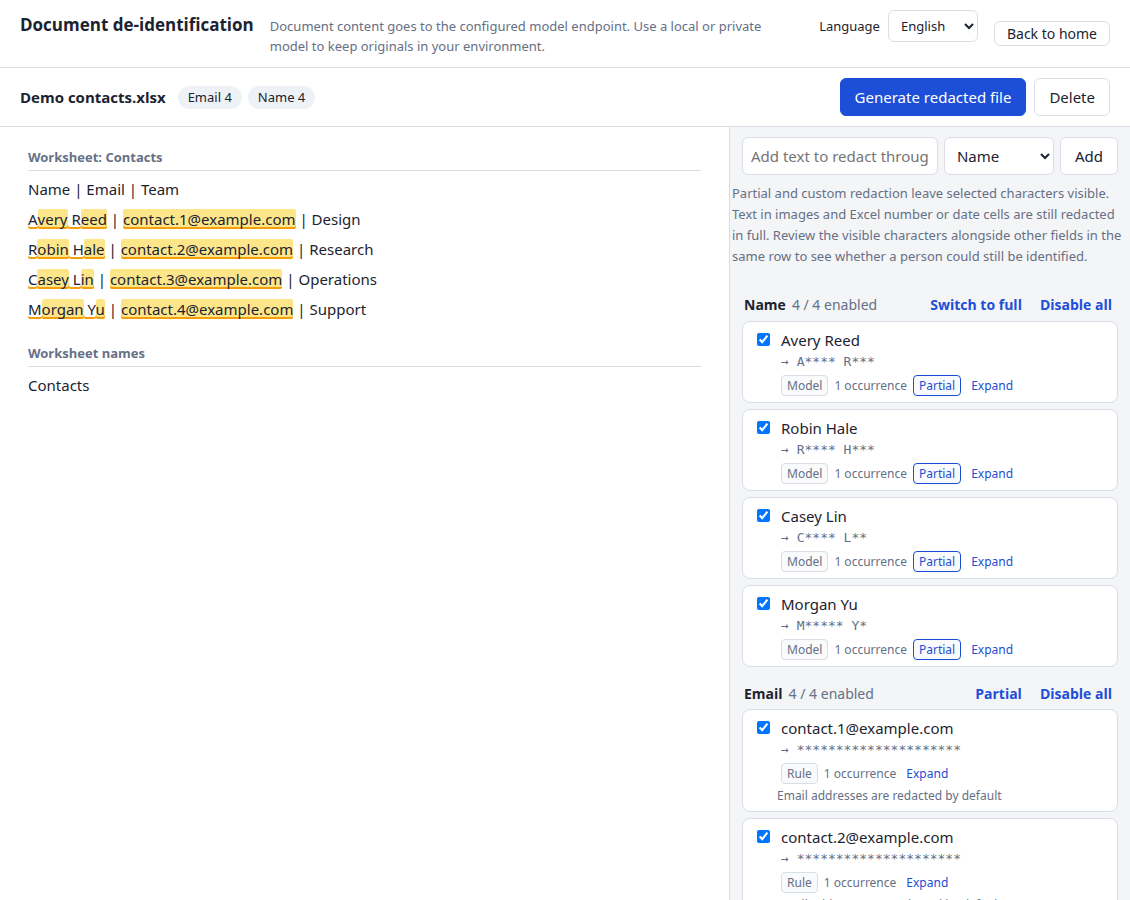
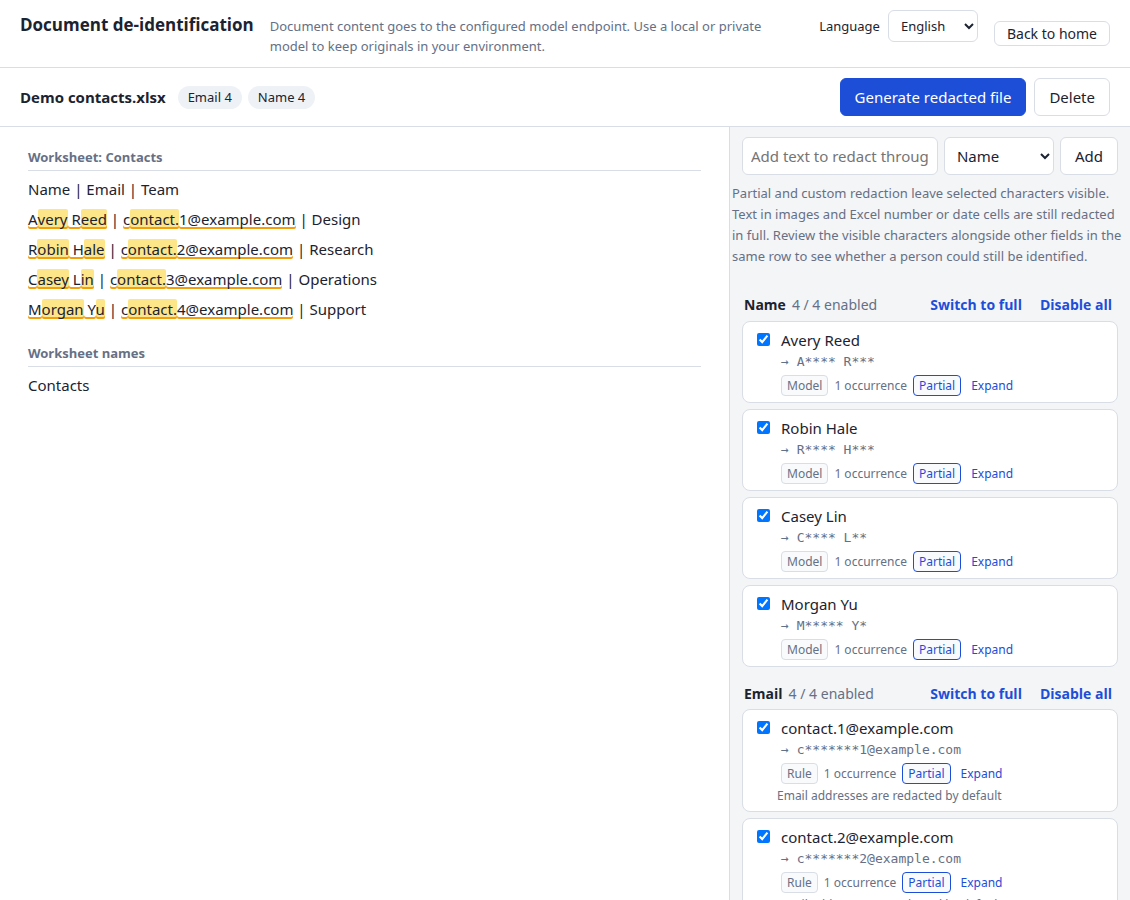
Use the supplied Traditional Chinese demo screenshots

diff --git a/README.md b/README.md
@@ -6,7 +6,7 @@
 
 上傳 Word、Excel 或 PDF，逐筆確認個資，再下載遮蔽檔，或將原文轉成代號交給雲端模型處理。偵測以繁體中文與台灣常見的個資格式為主。
 
-![VeilSpan 首頁，顯示「遮蔽」和「代號＋還原」兩種功能](docs/images/zh-home.png)
+![VeilSpan 首頁，顯示「遮蔽」和「代號＋還原」兩種功能](docs/images/home.png)
 
 ## Agentic 偵測怎麼運作
 
@@ -37,9 +37,34 @@
 
 ### 文件遮蔽
 
-以虛構的 Excel 通訊錄為例。可逐筆核對姓名與電子郵件，再對不同欄位選擇全遮、半遮或自訂。
+下圖是同一份虛構 Excel 通訊錄的全遮與半遮輸出，供對照遮蔽範圍。
 
-![檢查畫面中，姓名套用半遮，電子郵件維持全遮](docs/images/zh-review.png)
+#### 全遮
+
+選定的姓名、電話、生日與電子郵件都已遮蔽。表格版面與原先未選取的欄位仍可閱讀。
+
+![全遮 DEMO，選定欄位的內容都已遮蔽](docs/images/excel-full-mask.png)
+
+#### 半遮
+
+姓名和電話保留部分字元。這份範例中的信箱保留 `@` 前的首尾字元與網域，其餘字元以星號遮蔽。
+
+![半遮 DEMO，姓名、電話與信箱只顯示部分字元](docs/images/excel-partial-mask.png)
+
+<details>
+<summary>查看原始範本與遮法設定</summary>
+
+**原始範本**
+
+![遮蔽前的虛構 Excel 通訊錄](docs/images/excel-original.png)
+
+**編輯遮法**
+
+![檢查畫面可整類切換半遮，也可逐筆選擇遮法](docs/images/review-mask-settings.png)
+
+</details>
+
+#### 圖片遮蔽
 
 文件內的圖片也能遮蔽。下圖是郵件截圖的遮蔽結果，寄件者與收件者資訊已用黑框蓋住。
 
@@ -49,11 +74,20 @@
 
 將選定的個資換成 `[姓名1]`、`[電子郵件1]` 等代號，下載維持原格式的代號版和同一批還原檔。
 
-![代號版 Excel、純文字與同批還原檔的下載畫面](docs/images/zh-placeholders.png)
+![Excel 代號版，姓名、電話、生日與信箱以方括號代號呈現](docs/images/excel-placeholders.png)
 
 複核後只把代號版交給雲端處理。拿到回覆後，選取本地保存的還原檔，即可把回覆裡的代號換回原文。
 
-![虛構的雲端回覆與在本地還原後的結果](docs/images/zh-restore.png)
+![還原畫面，上方是含代號的雲端回覆，下方是還原後的文字](docs/images/restore-cloud-reply.png)
+
+<details>
+<summary>查看未出現在回覆中的代號</summary>
+
+還原後可核對哪些代號沒有出現在雲端回覆中。
+
+![還原結果列出還原檔內未在回覆中使用的代號](docs/images/restore-unused-placeholders.png)
+
+</details>
 
 ## 為什麼做
 

diff --git a/README.en.md b/README.en.md
@@ -22,7 +22,9 @@ I started with Presidio. In my setup, legitimate street names, model numbers, an
 
 Upload a file, review the findings, and choose **full**, **partial**, or **custom** redaction for individual values. You can add missed text or select a region of an image or PDF page. The redacted download keeps the file format.
 
-![An English workbook in the review screen with full and partial redaction controls](docs/images/en-review.png)
+The review screen shows what will stay visible. In this example, partial redaction preserves the first and last characters before the `@` and the domain of each email address.
+
+![An English workbook in the review screen with partial redaction applied to names and email addresses](docs/images/en-review.png)
 
 VeilSpan can also redact text or selected regions inside embedded images. This fictional English email shows how it covers the sender’s and recipient’s names and email addresses while leaving the message readable.
 
